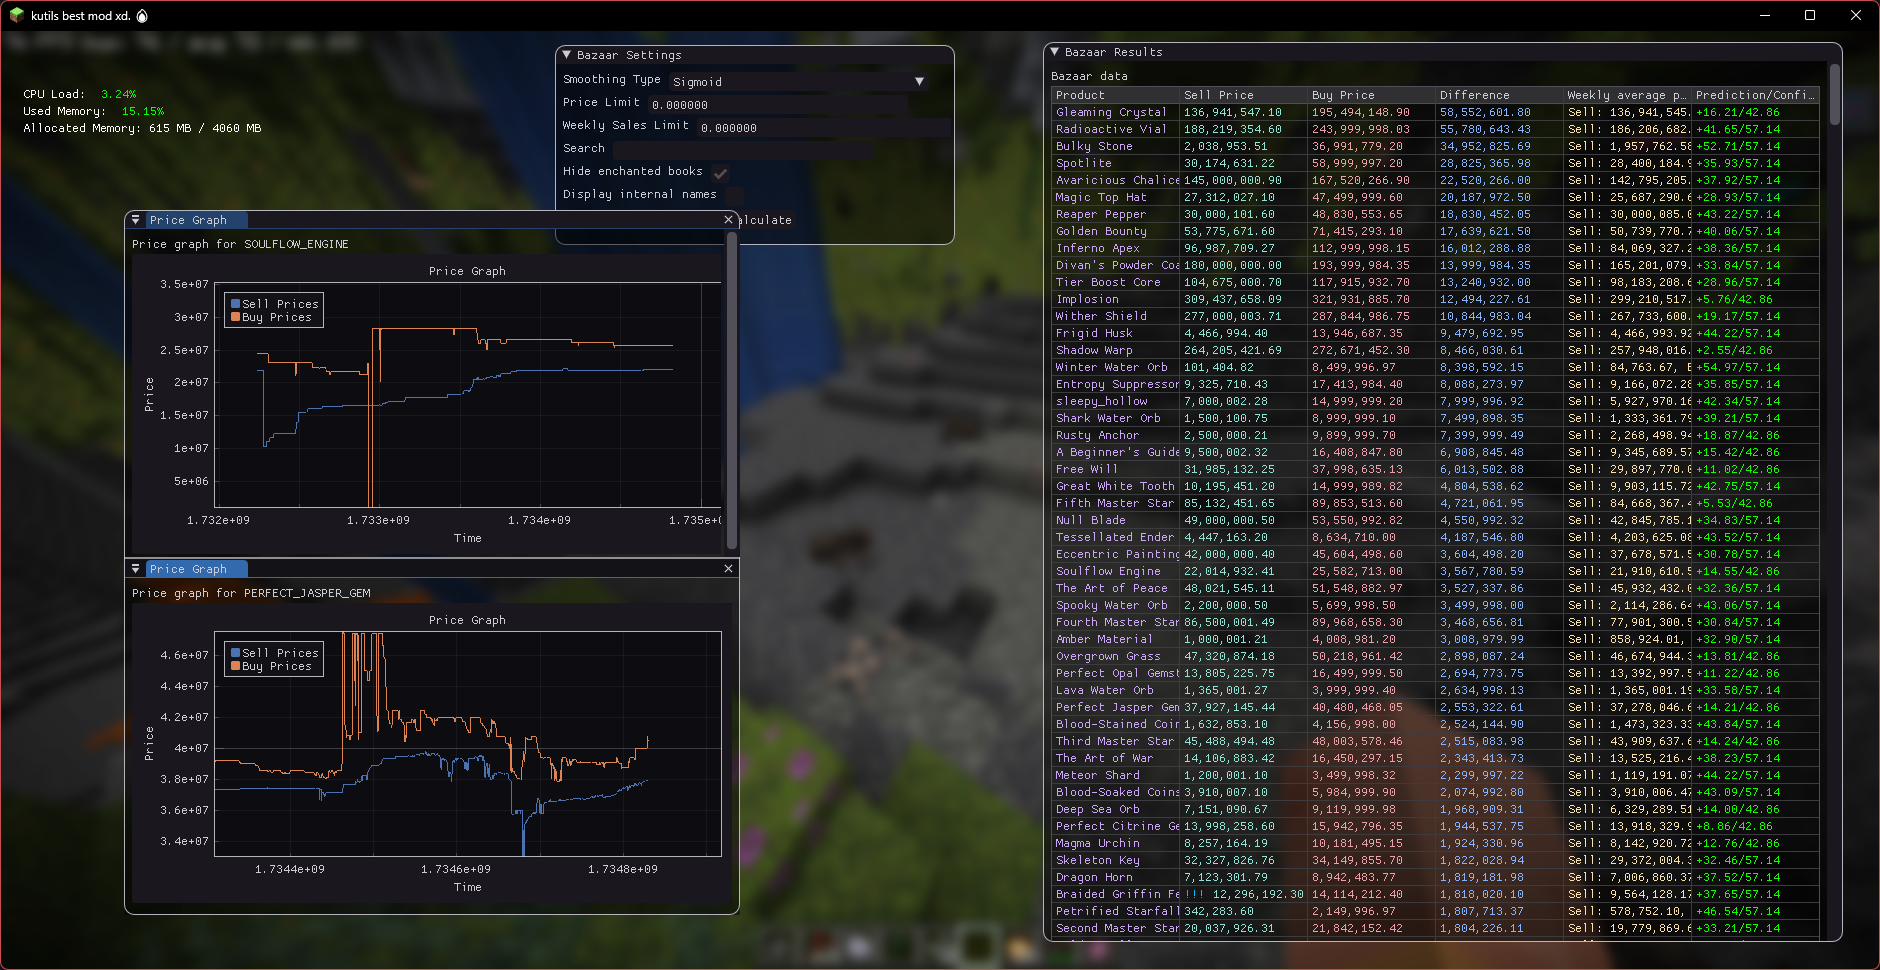
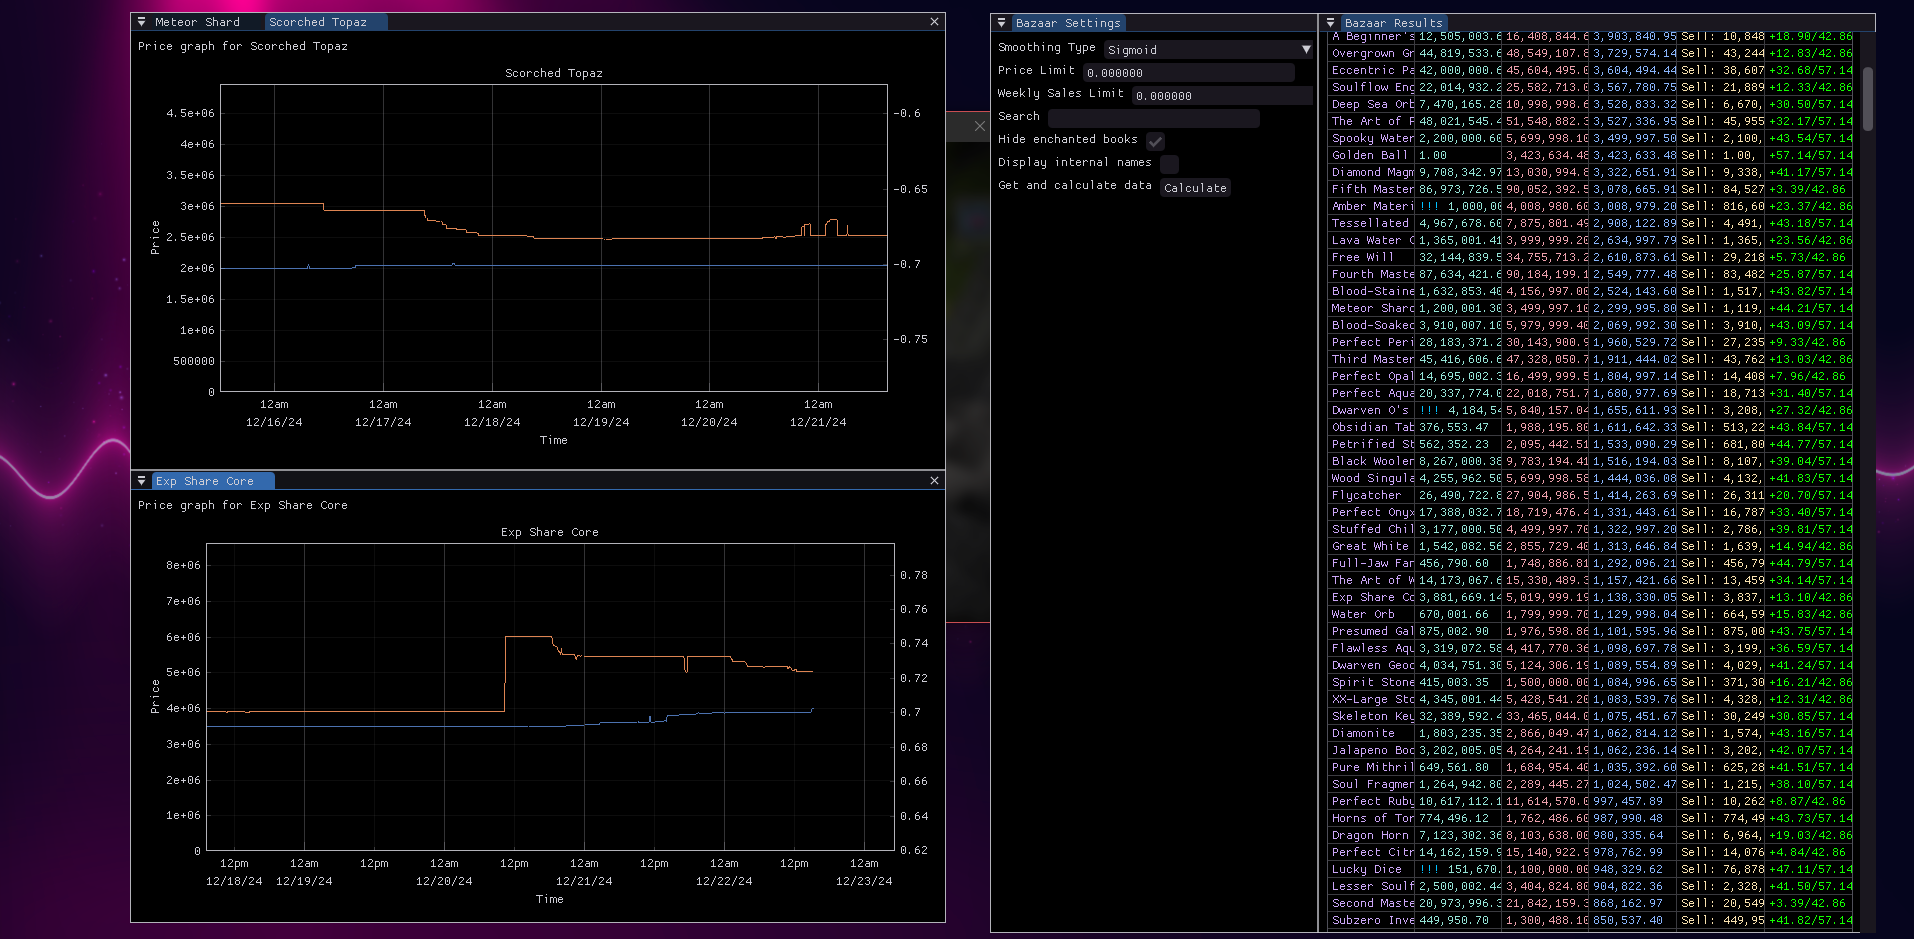
more ux improvements and a spinner animation xd

diff --git a/src/client/kotlin/org/kociumba/kutils/client/bazaar/bazaarUI.kt b/src/client/kotlin/org/kociumba/kutils/client/bazaar/bazaarUI.kt
@@ -36,6 +36,9 @@ enum class SmoothingTypes(val displayName: String) {
 
 var products: Map<String, Product> = emptyMap()
 var items: Map<String, Item> = emptyMap()
+var status = BazaarFetchStaus(false, "Getting Bazaar Data...")
+
+data class BazaarFetchStaus(var fetching: Boolean, var message: String)
 
 /**
  * Main bazaar related features ui
@@ -150,25 +153,23 @@ object bazaarUI : ImGuiScreen(Text.literal("BazaarUI"), true) {
                         try {
                             log.info("Getting bazaar data...")
 //                            throw Exception("test error")
-                            var b = BazaarAPI.getBazaar()
-                            var i = ItemsAPI.getItems()
-                            products = emptyMap()
-                            // doing this couse of how this is displayed, might use something else
+                            var b: Bazaar
+                            var i: Items
+                            status.fetching = true
+                            Thread {
+                                b = BazaarAPI.getBazaar()
+                                i = ItemsAPI.getItems()
 
-//                            b.products.filter { (_, p) ->
-//                                productFilter(p)
-//                            }.forEach { products[it.key] = it.value }
+                                products = emptyMap()
 
-                            // store for later
-                            products = b.products
+                                products = b.products
 
-                            items = i.items.associateBy { item -> item.id }
+                                // map in game names to ids
+                                items = i.items.associateBy { item -> item.id }
 
-//                            log.info(items)
-
-                            // reset the display values
-
-                            log.info("Got ${products.size} products")
+                                status.fetching = false
+                                log.info("Got ${products.size} products")
+                            }.start()
                         } catch (e: Exception) {
                             log.error("Something went wrong while filtering the bazaar data", e)
                             error = BazaarRenderError(e, "Something went wrong while filtering the bazaar data")
@@ -191,6 +192,26 @@ object bazaarUI : ImGuiScreen(Text.literal("BazaarUI"), true) {
                     var numberOfColumns = 7
                     if (!c.showWeeklyTraffic) numberOfColumns--
                     if (!c.showWeeklyAveragePrice) numberOfColumns--
+
+                    if (status.fetching) {
+                        val windowSize = ImGui.getWindowSize()
+                        val windowPos = ImGui.getWindowPos()
+                        val spinnerRadius = 25f
+
+                        // Center the spinner
+                        val centerX = windowPos.x + windowSize.x / 2 - spinnerRadius
+                        val centerY = windowPos.y + windowSize.y / 2 - spinnerRadius
+
+                        ImGui.setCursorScreenPos(centerX, centerY)
+                        spinner("##s", spinnerRadius, 5f, ImGui.getColorU32(1f, 1f, 1f, 1f))
+
+                        return@ImGuiWindow
+                    }
+
+                    if (products.isEmpty()) {
+                        ImGui.text("Get current baazar data by clicking the calculate button!")
+                        return@ImGuiWindow
+                    }
 
                     ImGui.text("Bazaar data")
                     if (ImGui.beginTable(
@@ -408,6 +429,13 @@ object bazaarUI : ImGuiScreen(Text.literal("BazaarUI"), true) {
         var name: String = if (displayInternalNames.get()) p.product_id else getRealName(p)
 //        coloredText("#cba6f7", name)
         coloredText(colorToHex(c.productIDColor), name)
+        if (ImGui.isItemHovered()) {
+            ImGui.beginTooltip()
+            ImGui.text("Click to show price graph for:")
+            ImGui.bulletText("product_id = ${p.product_id}")
+            ImGui.bulletText("in game name = ${getRealName(p)}")
+            ImGui.endTooltip()
+        }
         if (ImGui.isItemClicked()) {
             // Only add if not already in the list
             if (showPriceGraphList.none { it.product.product_id == p.product_id }) {
@@ -512,7 +540,7 @@ object bazaarUI : ImGuiScreen(Text.literal("BazaarUI"), true) {
                 ImGui.setNextWindowSize(620f, 400f, ImGuiCond.FirstUseEver)
 
                 // Use the show boolean from ShowPriceGraphData
-                if (ImGui.begin("Price Graph###${getRealName(data.product)}", data::show.get(), ImGuiWindowFlags.AlwaysAutoResize)) {
+                if (ImGui.begin(getRealName(data.product), data::show.get(), ImGuiWindowFlags.AlwaysAutoResize)) {
                     priceGraphWindow(data.product)
                 }
 
@@ -530,10 +558,6 @@ object bazaarUI : ImGuiScreen(Text.literal("BazaarUI"), true) {
 
     fun reset() {
         log.debug("reset called")
-//        smoothingType.set(SmoothingTypes.SIGMOID.ordinal)
-//        priceLimit.set(1e32)
-//        weeklySalesLimit.set(1e32)
-//        displayResults.set(10)
         setAlreadyInitialised(false)
     }
 }

diff --git a/src/client/kotlin/org/kociumba/kutils/client/bazaar/priceGraph.kt b/src/client/kotlin/org/kociumba/kutils/client/bazaar/priceGraph.kt
@@ -9,6 +9,7 @@ import imgui.extension.implot.flag.ImPlotCol
 import imgui.extension.implot.flag.ImPlotFlags
 import org.kociumba.kutils.client.bazaar.bazaarUI.getRealName
 import org.kociumba.kutils.client.c
+import org.kociumba.kutils.client.imgui.spinner
 import org.kociumba.kutils.log
 import java.time.Instant
 import java.time.temporal.ChronoUnit
@@ -67,6 +68,7 @@ data class ImPlotPriceData(
 }
 
 private var fetchStates = mutableMapOf<String, Boolean>()
+private var loadingStates = mutableMapOf<String, Boolean>()
 private var priceDataMap = mutableMapOf<String, ImPlotPriceData>()
 private const val defaultTimeframe = 100L // days
 
@@ -76,29 +78,45 @@ fun priceGraphWindow(p: Product) {
     // Initialize fetch state if needed
     if (!fetchStates.containsKey(productId)) {
         fetchStates[productId] = false
+        loadingStates[productId] = false
     }
 
-    // Start fetch if not already started
-    if (fetchStates[productId] == false) {
+    fun fetchData() {
         fetchStates[productId] = true
+        loadingStates[productId] = true
         log.info("Fetching price graph for $productId")
 
         Thread {
             priceDataMap[productId] = PriceDataFetcher.fetchPriceData(productId)?.toImPlotData(defaultTimeframe)!!
+            loadingStates[productId] = false
         }.start()
     }
 
+    if (fetchStates[productId] == false) {
+        fetchData()
+    }
+
     ImGui.text("Price graph for ${getRealName(p)}")
+    if (ImGui.button("Refresh data")) {
+        fetchData()
+    }
+    if (loadingStates[productId] == true) {
+        ImGui.sameLine()
+        val buttonHeight = ImGui.getFrameHeight()
+        val radius = buttonHeight / 2 - 1f  // 1 looks the best
+        val thickness = buttonHeight / 7f   // 7 looks the best
+        spinner("##s", radius, thickness, ImGui.getColorU32(1f, 1f, 1f, 1f))
+    }
 
     priceDataMap[productId]?.let { data ->
         var bg = c.mainWindowBackground
         ImPlot.pushStyleColor(ImPlotCol.FrameBg, ImVec4(bg.red / 255f, bg.green / 255f, bg.blue / 255f, bg.alpha / 255f))
         if (ImPlot.beginPlot(
-                "Price Graph###$productId",
+                getRealName(p),
                 "Time",
                 "Price",
                 ImVec2(800f, 400f),
-                ImPlotFlags.AntiAliased or ImPlotFlags.NoChild or ImPlotFlags.Crosshairs or ImPlotFlags.YAxis2,
+                ImPlotFlags.AntiAliased or ImPlotFlags.NoChild,
                 ImPlotAxisFlags.Time,
                 ImPlotAxisFlags.LockMin
             )) {

diff --git a/src/client/kotlin/org/kociumba/kutils/client/imgui/spinner.kt b/src/client/kotlin/org/kociumba/kutils/client/imgui/spinner.kt
@@ -1,0 +1,42 @@
+package org.kociumba.kutils.client.imgui
+
+import imgui.ImGui
+import imgui.ImVec2
+import kotlin.math.abs
+import kotlin.math.cos
+import kotlin.math.sin
+
+/**
+ * Scalable spinner animation, without using gifs or images
+ */
+fun spinner(label: String, radius: Float, thickness: Float, color: Int) {
+    val pos = ImGui.getCursorScreenPos()
+    val size = ImVec2(radius * 2, radius * 2)
+
+    ImGui.dummy(size.x, size.y)
+
+    val drawList = ImGui.getWindowDrawList()
+    drawList.pathClear()
+
+    val numSegments = 30
+    val start = abs(sin(ImGui.getTime() * 1.8f) * (numSegments - 5))
+
+    val aMin = Math.PI.toFloat() * 2.0f * start / numSegments
+    val aMax = Math.PI.toFloat() * 2.0f * (numSegments - 3) / numSegments
+
+    val centre = ImVec2(
+        pos.x + size.x * 0.5f,
+        pos.y + size.y * 0.5f
+    )
+
+    for (i in 0..numSegments) {
+        val a = aMin + (i / numSegments.toFloat()) * (aMax - aMin)
+        val time = ImGui.getTime() * 8
+        drawList.pathLineTo(
+            centre.x + cos(a + time).toFloat() * radius,
+            centre.y + sin(a + time).toFloat() * radius
+        )
+    }
+
+    drawList.pathStroke(color, 0, thickness)
+}

diff --git a/src/client/kotlin/org/kociumba/kutils/client/bazaar/getBazaar.kt b/src/client/kotlin/org/kociumba/kutils/client/bazaar/getBazaar.kt
@@ -59,7 +59,7 @@ object BazaarAPI {
         var r = Http.getProxy("https://kutils-hypixel-proxy.kociumba.workers.dev/bazaar")
 //        log.info("Bazaar response: $r")
         var bazaar: Bazaar = Json.decodeFromString(r)
-        log.info("Bazaar: ${bazaar.products["FLAWLESS_AMETHYST_GEM"]}")
+//        log.info("Bazaar: ${bazaar.products["FLAWLESS_AMETHYST_GEM"]}")
         return bazaar
     }
 }

diff --git a/README.md b/README.md
@@ -57,7 +57,8 @@ Implemented features:
 
 Basically done features 🤷:
 - in game calculator with simple controls (just some ui adjustments left)
-- historical item price graphs like in [NotEnoughUpdates](https://github.com/NotEnoughUpdates/NotEnoughUpdates)
+- historical item price graphs like in [NotEnoughUpdates](https://github.com/NotEnoughUpdates/NotEnoughUpdates),
+    to open the graph, click on any item in the bazaar ui.
 
 Features with weird issues 💀:
 - in game implementation of [Skydriver](https://www.github.com/kociumba/Skydriver) (my cli bazaar data app)
@@ -108,8 +109,7 @@ Most windows can also be docked to each other and collapsed.
 </div>
 <div style="display: flex; justify-content: space-between;">
     <img src="https://raw.githubusercontent.com/kociumba/kutils/refs/heads/main/assets/img_1.png" width="49%" alt="price graphs">
-
-[//]: # (    <img src="https://via.placeholder.com/100x100" width="49%" alt="future display">)
+    <img src="https://raw.githubusercontent.com/kociumba/kutils/refs/heads/main/assets/bazaarUI opacity.png" width="49%" alt="ui opacity">
 </div>
 
 ## Known issues
